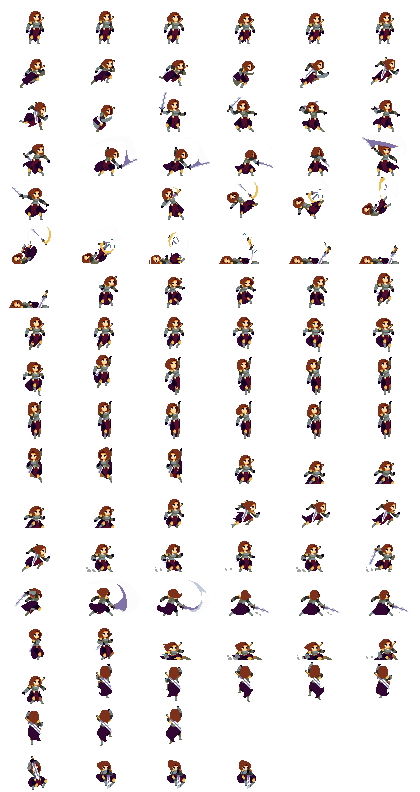
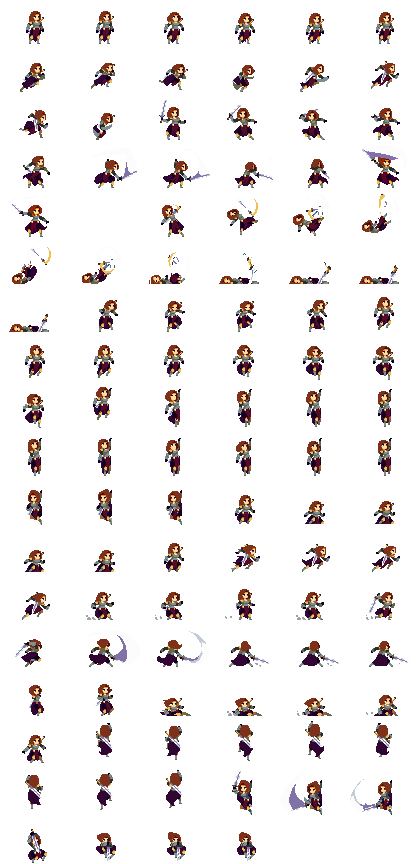
Attack from wall

diff --git a/src/jumpman.cpp b/src/jumpman.cpp
@@ -75,6 +75,13 @@ const vec kSwordAttackDownOffset = vec(2.f,3.f);
 const float kSwordAttackUpRadius = 20.f;
 const vec kSwordAttackUpOffset = vec(0.f, -29.f);
 
+
+const float kSwordAttackWallSlideRadius = 23.f;
+const vec kSwordAttackWallSlideOffset = vec(-16.f, -15.5f);
+
+
+
+
 // Sprite
 const vec kStandingSize = vec(14, 32);
 const vec kCrouchedSize = vec(16, 22);
@@ -90,12 +97,12 @@ void DestroyTilesWithSword(const CircleBounds& e) {
 	for (int x = xLeft; x <= xRight; x+=Tile::Size)
 	{
 		for (int y = yTop; y <= yBottom; y+=Tile::Size) {
-			vec pos = Tile::AlignToTiles(vec(x, y)) + Tile::Sizes/2; // IMPROVE: here we only check the center of the tile
+			vec pos = Tile::AlignToTiles(vec(x, y)) + Tile::Sizes/2; // IMPROVE?: here we only check the center of the tile
 			if (e.Contains(pos)) {
 				veci t = Tile::ToTiles(pos);
 				Tile tile = map->GetTile(t);
 				if (tile.isBreakable(breakPower)) {
-					DestroyedTiles::instance()->Destroy(t.x, t.y);
+					destroyedTiles->Destroy(t.x, t.y);
 				}
 			}
 		}
@@ -336,12 +343,18 @@ void JumpMan::Update(float dt)
 		if (Input::IsJustPressed(0, GameKeys::ATTACK, 0.15f)) {
 			Input::ConsumeJustPressed(0, GameKeys::ATTACK);
 			attacking = true;
-			attackingUp = Input::IsPressed(0, GameKeys::MENU_UP);
-			if (attackingUp) {
-				anim.Ensure(AnimLib::WARRIOR_ATTACK_UP, false);
+			if (onWall) {
+				attackingUp = false;
+				anim.Ensure(AnimLib::WARRIOR_WALL_SLIDE_ATTACK, false);
 			}
 			else {
-				anim.Ensure(AnimLib::WARRIOR_MOVING_ATTACK, false);
+				attackingUp = Input::IsPressed(0, GameKeys::MENU_UP);
+				if (attackingUp) {
+					anim.Ensure(AnimLib::WARRIOR_ATTACK_UP, false);
+				}
+				else {
+					anim.Ensure(AnimLib::WARRIOR_MOVING_ATTACK, false);
+				}
 			}
 		}
 	}
@@ -359,24 +372,24 @@ void JumpMan::Update(float dt)
 		if (playerAttack.alive) {
 			DestroyTilesWithSword(playerAttack.Bounds());
 		}
-		if (attackingUp) {
+		if (onWall) {
+			anim.anim = AnimLib::WARRIOR_WALL_SLIDE_ATTACK.data();
+			playerAttack.radius = kSwordAttackWallSlideRadius;
+			playerAttack.pos = pos + kSwordAttackWallSlideOffset.Mirrored(lookingLeft, false);
+		}
+		else if (attackingUp) {
+			anim.anim = AnimLib::WARRIOR_ATTACK_UP.data();
 			playerAttack.radius = kSwordAttackUpRadius;
 			playerAttack.pos = pos + kSwordAttackUpOffset.Mirrored(lookingLeft, false);
 		}
 		else {
+			anim.anim = AnimLib::WARRIOR_MOVING_ATTACK.data();
 			playerAttack.radius = kSwordAttackRadius;
 			playerAttack.pos = pos + kSwordAttackOffset.Mirrored(lookingLeft, false);
 		}
 
 		if (anim.IsComplete()) {
-			/*if (Input::IsJustPressed(0, GameKeys::ATTACK, 0.15f)) {
-				Input::ConsumeJustPressed(0, GameKeys::ATTACK);
-				anim.Ensure(AnimLib::WARRIOR_COMBO, false);
-			}
-			else */
-			{
-				attacking = false;
-			}
+			attacking = false;
 		}
 	} else if (diving) {
 		if (divingRestTimer > 0.f) {
@@ -412,7 +425,10 @@ void JumpMan::Update(float dt)
 	pos = moved.pos + vec(0, size.y/2);
 
 	if (moved.leftWallCollision != Tile::NONE) {
-		if (!attacking && !isHit() && SkillTree::instance()->IsEnabled(Skill::WALLJUMP)) {
+		if ((onWall || !grounded) && !isHit() && SkillTree::instance()->IsEnabled(Skill::WALLJUMP)) {
+			if (!onWall && attacking && anim.current_frame > 0) {
+				attacking = false;
+			}
 			onWall = true;
 			vel.x = -500.f * dt; //stay against wall
 		}
@@ -423,7 +439,10 @@ void JumpMan::Update(float dt)
 		lookingLeft = true;
 	}
 	else if (moved.rightWallCollision != Tile::NONE) {
-		if (!attacking && !isHit() && SkillTree::instance()->IsEnabled(Skill::WALLJUMP)) {
+		if ((onWall || !grounded) && !isHit() && SkillTree::instance()->IsEnabled(Skill::WALLJUMP)) {
+			if (!onWall && attacking && anim.current_frame > 0) {
+				attacking = false;
+			}
 			onWall = true;
 			vel.x = 500.f * dt; //stay against wall
 		}
@@ -645,7 +664,7 @@ void JumpMan::Draw() const {
 
 #ifdef _IMGUI
 	{
-		ImGui::Begin("jumpman scene");
+		ImGui::Begin("jumpman");
 		static bool invincible = false;
 		ImGui::Checkbox("invincible", &invincible);
 		if (invincible) {
@@ -655,7 +674,7 @@ void JumpMan::Draw() const {
 		ImGui::SliderFloat2("pos", (float*)&pos, 16.f, 4500.f);
 		ImGui::Text("vel %f,%f", vel.x, vel.y);
 		ImGui::Text("jumpTimeLeft: %f divingRestTimer: %f", jumpTimeLeft, divingRestTimer);
-		ImGui::Text("grounded: %d attacking: %d diving: %d dashing: %d", grounded, attacking, diving, dashing);
+		ImGui::Text("ground: %d wall: %d attacking: %d diving: %d dashing: %d", grounded, onWall, attacking, diving, dashing);
 		ImGui::End();
 	}
 #endif
@@ -667,7 +686,7 @@ void JumpMan::Draw() const {
 	}
 
 	Window::Draw(Assets::warriorTexture, pos)
-		.withOrigin(AnimLib::warriorSheet.sprite_w/2, AnimLib::warriorSheet.sprite_h)
+		.withOrigin(AnimLib::warriorSheet.sprite_w/2, AnimLib::warriorSheet.sprite_h-4)
 		.withRect(anim.CurrentFrameRect())
 		.withScale(lookingLeft ? -1.f : 1.f, 1.f);
 

diff --git a/src/anim_lib.h b/src/anim_lib.h
@@ -264,11 +264,13 @@ namespace AnimLib {
 		{ { 5 * 96.0, 8 * 96.f, 96.f, 96.f }, .1f },
 	};
 
-	const constexpr SheetFrameCalculator warriorSheet(70.f, 44.f, 6, .1f);
+	const constexpr SheetFrameCalculator warriorSheet(70.f, 48.f, 6, .1f);
 	constexpr const AnimationFrame WARRIOR_IDLE[] = { warriorSheet.Frame(5, 1.f), warriorSheet.Frame(0, 1.0f), };
 	constexpr const std::array<AnimationFrame, 8> WARRIOR_RUN = warriorSheet.Frames<8>(6);
-	constexpr const std::array<AnimationFrame, 4> WARRIOR_ATTACK = warriorSheet.Frames<4>(18);
-	constexpr const std::array<AnimationFrame, 4> WARRIOR_COMBO = warriorSheet.Frames<4>(22);
+	constexpr const std::array<AnimationFrame, 2> WARRIOR_PULL_SWORD_OUT = warriorSheet.Frames<2>(14);
+	constexpr const std::array<AnimationFrame, 3> WARRIOR_ATTACK_UP = warriorSheet.Frames<3>(22);
+	//constexpr const std::array<AnimationFrame, 4> WARRIOR_ATTACK = warriorSheet.Frames<4>(18);
+	//constexpr const std::array<AnimationFrame, 4> WARRIOR_COMBO = warriorSheet.Frames<4>(22);
 	constexpr const std::array<AnimationFrame, 11> WARRIOR_DEATH = warriorSheet.Frames<11>(26);
 	constexpr const std::array<AnimationFrame, 3> WARRIOR_HURT = warriorSheet.Frames<3>(38); //skip first 1
 	constexpr const std::array<AnimationFrame, 3> WARRIOR_JUMP = warriorSheet.Frames<3>(42);
@@ -283,13 +285,12 @@ namespace AnimLib {
 	constexpr const std::array<AnimationFrame, 4> WARRIOR_DASH_STOP = warriorSheet.Frames<4>(73);
 	constexpr const std::array<AnimationFrame, 9> WARRIOR_DASH_ATTACK = warriorSheet.Frames<9>(77);
 	constexpr const std::array<AnimationFrame, 5> WARRIOR_SLIDE = warriorSheet.Frames<5>(86);
-	constexpr const std::array<AnimationFrame, 8> WARRIOR_LADDER = warriorSheet.Frames<8>(91);
+	constexpr const std::array<AnimationFrame, 8> WARRIOR_CLIMB = warriorSheet.Frames<8>(91);
+	constexpr const std::array<AnimationFrame, 3> WARRIOR_WALL_SLIDE_ATTACK = warriorSheet.Frames<3>(99);
+	constexpr const std::array<AnimationFrame, 1> WARRIOR_ATTACK_DOWN_TRANSITION = warriorSheet.Frames<1>(102);
+	constexpr const std::array<AnimationFrame, 3> WARRIOR_ATTACK_DOWN = warriorSheet.Frames<3>(103);
 	constexpr const AnimationFrame WARRIOR_TURN[] = { warriorSheet.Frame(12*6+1, 1.f) };
 	constexpr const std::array<AnimationFrame, 3> WARRIOR_MOVING_ATTACK = warriorSheet.Frames<3>(78); // skip first 2 and last 5 of DASH_ATTACK
-	constexpr const std::array<AnimationFrame, 1> WARRIOR_ATTACK_DOWN_TRANSITION = warriorSheet.Frames<1>(17*6);
-	constexpr const std::array<AnimationFrame, 3> WARRIOR_ATTACK_DOWN = warriorSheet.Frames<3>(17 * 6 + 1);
-	constexpr const std::array<AnimationFrame, 2> WARRIOR_PULL_SWORD_OUT = warriorSheet.Frames<2>(14);
-	constexpr const std::array<AnimationFrame, 3> WARRIOR_ATTACK_UP = warriorSheet.Frames<3>(22);
 
 }
 
